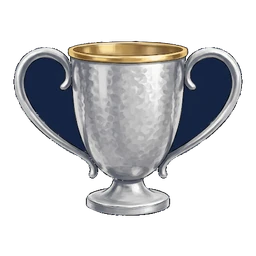
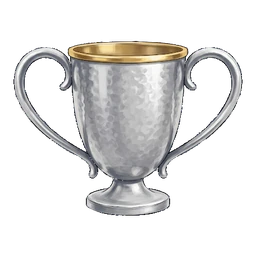
fix: troféus sem o fundo azul preso (Copa Europeia e Melhor Jogador)
O recorte só removia vãos de fundo pequenos (até 2% da imagem) presos dentro do
troféu; entre as alças da Copa Europeia e dentro do anel do Melhor Jogador o vão é
maior e o azul-marinho ficava. Agora há um limite por troféu
(VAO_MAX_POR_TROFEU = 0,2 nesses dois), com autoteste; as outras peças não mudam.

Claude-Session: https://claude.ai/code/session_016TdxoM5uh3xNfrukMGXpN2

Changed region(s): [[0.6562, 0.2188, 0.9062, 0.5938], [0.0938, 0.2188, 0.3438, 0.5938]]

diff --git a/docs/arte/processar_trofeus.py b/docs/arte/processar_trofeus.py
@@ -18,6 +18,9 @@ from PIL import Image
 
 TOL_LO, TOL_HI = 22.0, 46.0   # distância ao fundo em que a transparência é total / nenhuma (rampa suave na borda)
 VAO_MAX = 0.02                # vão de fundo (fração da imagem) que ainda conta como fundo
+# troféus com vãos de fundo grandes, presos dentro do desenho (entre as alças e a taça; entre o anel e a bola): ali o vão maior
+# também sai (relato do usuário em 2026-10-11: "alguns troféus ficaram com uma parte do fundo em azul")
+VAO_MAX_POR_TROFEU = {'copa-europeia': 0.2, 'premio-melhor-jogador': 0.2}
 MARGEM = 0.06                 # margem em volta do troféu, fração do lado
 
 
@@ -28,7 +31,7 @@ def fundo(img):
     return np.mean([p.reshape(-1, 3).mean(0) for p in patches], axis=0)
 
 
-def alfa(img):
+def alfa(img, vao_max=VAO_MAX):
     """Alfa 0..1: transparente no fundo ligado às bordas; o resto, opaco."""
     h, w, _ = img.shape
     dist = np.linalg.norm(img.astype(float) - fundo(img), axis=2)
@@ -61,15 +64,15 @@ def alfa(img):
                     if 0 <= ny < h and 0 <= nx < w and parecido[ny, nx] and not visto[ny, nx]:
                         visto[ny, nx] = True
                         fila.append((ny, nx))
-            if len(comp) < VAO_MAX * h * w:
+            if len(comp) < vao_max * h * w:
                 for y, x in comp:
                     ligado[y, x] = True
     return np.where(ligado, rampa, 1.0)
 
 
-def processa(caminho, tamanho):
+def processa(caminho, tamanho, vao_max=VAO_MAX):
     img = np.array(Image.open(caminho).convert('RGB'))
-    a = alfa(img)
+    a = alfa(img, vao_max)
     ys, xs = np.where(a > 0.5)
     y0, y1, x0, x1 = ys.min(), ys.max() + 1, xs.min(), xs.max() + 1
     lado = int(max(y1 - y0, x1 - x0) * (1 + 2 * MARGEM))
@@ -92,7 +95,7 @@ def main():
             print('sem imagem:', pasta)
             continue
         nome = os.path.basename(pasta.rstrip('/'))
-        processa(fontes[0], args.tamanho).save(os.path.join(args.saida, nome + '.webp'), quality=90, method=6)
+        processa(fontes[0], args.tamanho, VAO_MAX_POR_TROFEU.get(nome, VAO_MAX)).save(os.path.join(args.saida, nome + '.webp'), quality=90, method=6)
         print('ok', nome)
 
 

diff --git a/docs/arte/test_processar_trofeus.py b/docs/arte/test_processar_trofeus.py
@@ -37,6 +37,17 @@ def test_saida_quadrada_com_transparencia():
         assert out.getpixel((32, 32))[3] == 255
 
 
+
+def test_vao_grande_preso_some_so_com_o_limite_do_trofeu():
+    """Relato do usuário (2026-10-11): o fundo azul preso entre as alças e a taça ficava. Com o limite padrão o vão grande fica;
+    com o limite do troféu (VAO_MAX_POR_TROFEU), sai."""
+    img = np.zeros((200, 200, 3), np.uint8)
+    img[:] = BG
+    img[40:160, 40:160] = (212, 175, 55)   # anel dourado
+    img[60:140, 60:140] = BG               # vão de fundo preso dentro do anel (16% da imagem)
+    assert alfa(img)[100, 100] == 1        # padrão: vão grande fica (pode ser parte azul do desenho)
+    assert alfa(img, 0.2)[100, 100] == 0   # limite do troféu: sai
+
 if __name__ == '__main__':
     test_fundo_transparente_e_base_escura_opaca()
     test_saida_quadrada_com_transparencia()
